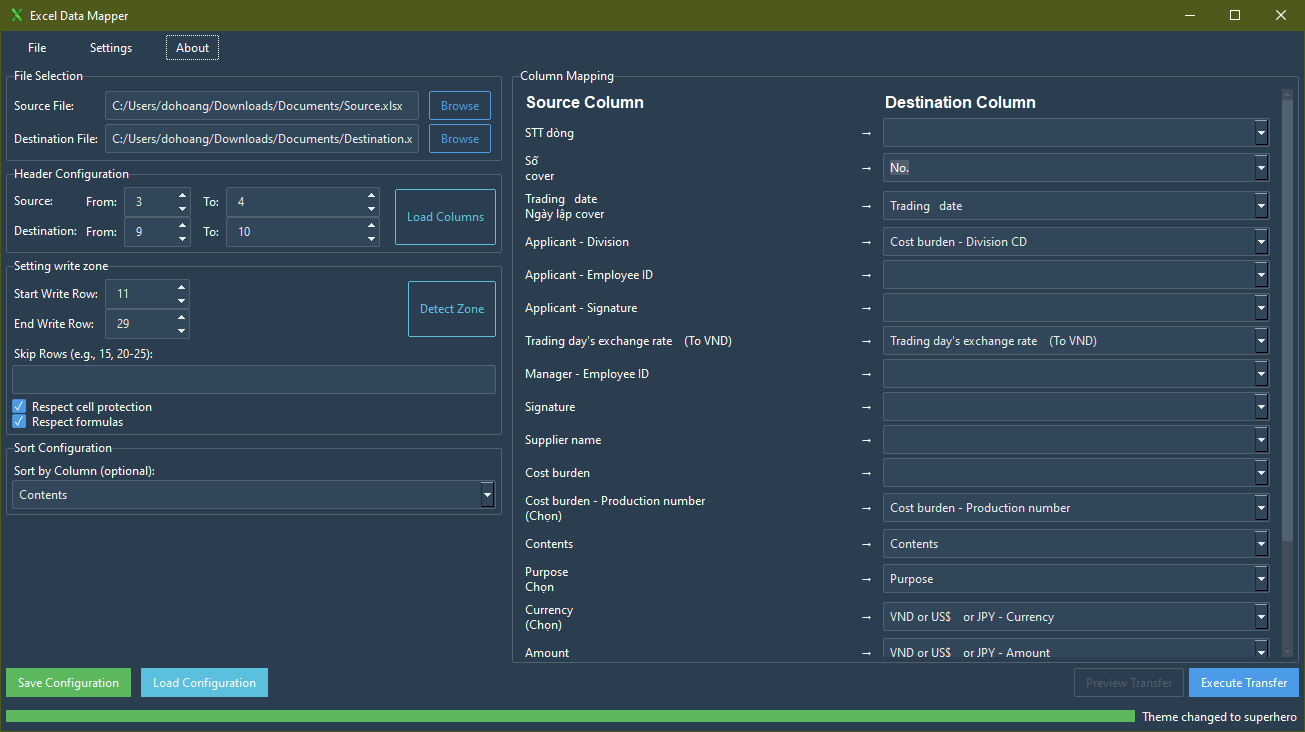
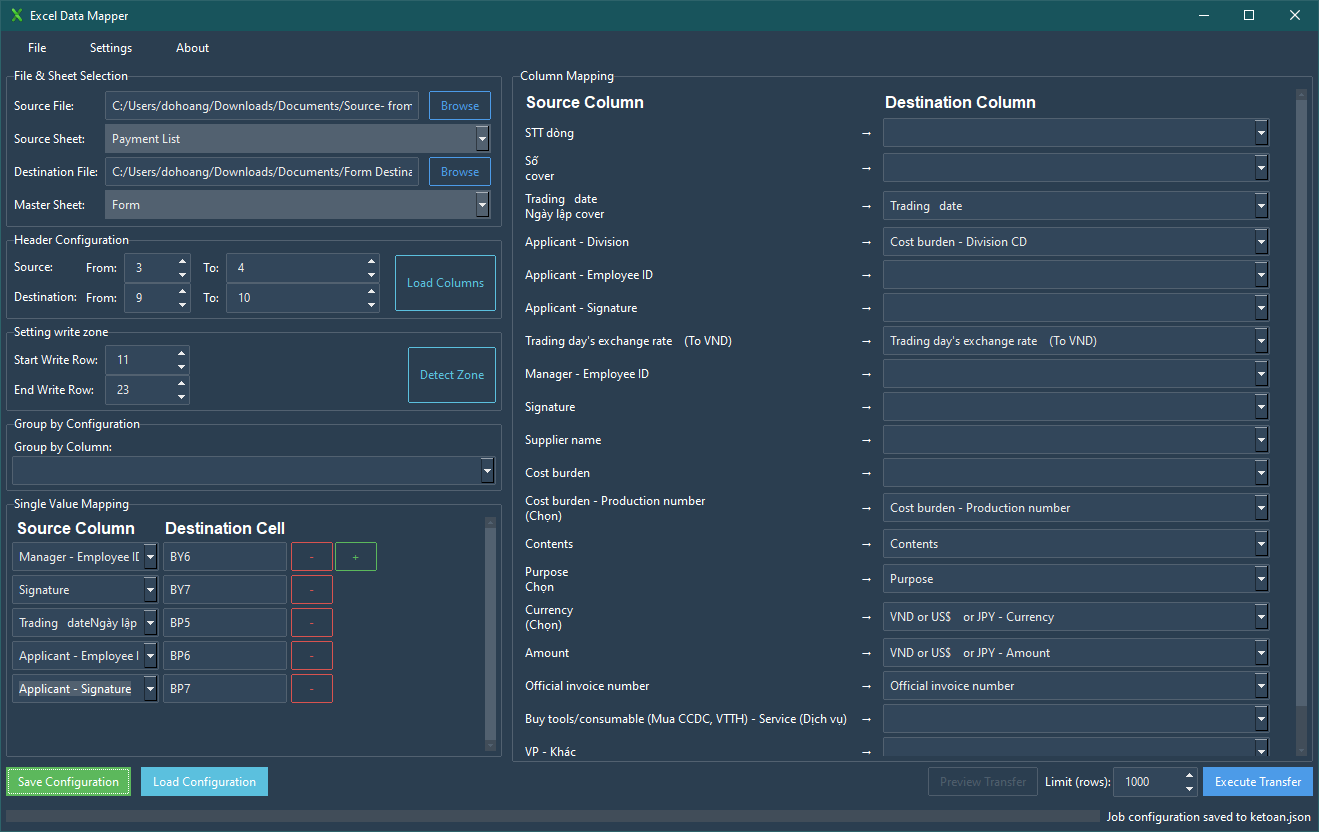
Sửa lỗi srcoll lắng nghe toàn cửa sổ. Upadte Readme

diff --git a/gui/widgets.py b/gui/widgets.py
@@ -33,14 +33,9 @@ class ScrollableFrame(ttk_boot.Frame):
         def _on_mousewheel(event):
             self.canvas.yview_scroll(int(-1*(event.delta/120)), "units")
         
-        def _bind_to_mousewheel(event):
-            self.canvas.bind_all("<MouseWheel>", _on_mousewheel)
-        
-        def _unbind_from_mousewheel(event):
-            self.canvas.unbind_all("<MouseWheel>")
-        
-        self.canvas.bind('<Enter>', _bind_to_mousewheel)
-        self.canvas.bind('<Leave>', _unbind_from_mousewheel)
+        # Bind directly to the canvas and scrollable frame, not the entire application
+        self.canvas.bind("<MouseWheel>", _on_mousewheel)
+        self.scrollable_frame.bind("<MouseWheel>", _on_mousewheel)
 
 # --- DIALOGS ---
 

diff --git a/README.md b/README.md
@@ -1,22 +1,23 @@
 # Excel Data Mapper
 
-A powerful application to map and transfer data between Excel files while preserving formatting and styles.
+A powerful application to intelligently transfer and group data between Excel files, creating new sheets from a master template while preserving all formatting and styles.
 
-<!-- Add a screenshot of the application's UI here -->
+<!-- The screenshot is slightly outdated, UI has been improved. -->
 ![Excel Data Mapper UI](./screenshot.png)
 
 ---
 
 ## ✨ Key Features
 
+- **Intelligent Template Reconstruction**: Instead of modifying your template, it generates a new output file where each data group becomes a new sheet, perfectly cloned from your master template.
 - **Flexible Column Mapping**: Automatically suggests and allows manual mapping between source and destination columns.
-- **Preserve Formatting**: Fully maintains the format, style, color, and borders of the destination Excel file.
-- **Advanced Write Zone Control**: Precisely define where data should be written, what rows to skip, and what to protect.
-- **Merged Cell Handling**: Intelligently supports reading from and writing to merged cells.
-- **Data Sorting**: Allows sorting data by a specified column before the transfer.
-- **Save/Load Configuration**: Saves all settings, including advanced ones, to a JSON file for reuse.
-- **User-Friendly Interface**: Uses ttkbootstrap with switchable light/dark themes and a responsive two-column layout.
-- **Comprehensive Error Handling**: Provides clear error messages and automatic backups for the destination file.
+- **Interactive Preview & Simulation**: A powerful multi-tab preview shows exactly how data will be grouped, what the output will look like, and flags potential data validation errors before you commit to the transfer.
+- **Data Validation Checks**: The preview automatically checks source data against the destination template's `list`-type data validation rules to catch errors early.
+- **Group Exclusion**: From the preview window, you can easily specify groups to exclude from the final transfer.
+- **Partial Preview**: For huge source files, you can limit the preview to the first N rows for a near-instant simulation.
+- **Safe by Design**: Your source and destination template files are **never modified**. All results are written to a new, separate output file.
+- **Save/Load Configuration**: Saves all settings to a JSON file for one-click reuse of complex jobs.
+- **User-Friendly Interface**: Uses ttkbootstrap with switchable light/dark themes.
 - **Robust File Handle Management**: Detects and warns if a file is locked by another program.
 
 ## 📂 Project Structure
@@ -25,7 +26,6 @@ ExcelMapper/
 
 ├── app.py                  # Main application entry point, contains GUI logic
 ├── setup.py                # Build script for creating the executable
-├── ExcelDataMapper.spec    # PyInstaller specification file for the build
 ├── requirements.txt        # Python dependencies
 ├── icon.ico                # Application icon
 ├── README.md               # This file
@@ -86,14 +86,15 @@ This project can be built in two ways:
 
 ## 📖 User Guide
 
-### Step 1: Select Files
+### Step 1: Select Files & Sheets
 - **Source File**: Choose the Excel file containing the data you want to transfer.
-- **Destination File**: Choose the Excel template file you want to populate.
+- **Destination File**: Choose the Excel **template file** you want to use as a base for the new sheets.
+- **Source Sheet / Master Sheet**: Select the correct sheet from each file.
 
 ### Step 2: Configure Headers
 This step tells the application where the headers are located in each file.
 - **Source Header Rows**: The row(s) containing the headers in the source file.
-- **Destination Header Rows**: The row(s) containing the headers in the destination file.
+- **Destination Header Rows**: The row(s) containing the headers in the destination template file.
 - Press **"Load Columns"** after configuring to have the application read and display the columns.
 
 **ASCII Art Example:**
@@ -126,33 +127,32 @@ Destination File (template.xlsx)
 +---+---------------------+----------------------+---------------------+----------------------+
 ```
 => Configuration: `Destination Header Rows: From [9] To [10]`
+
 The application will correctly read the headers as "EMPLOYEE INFORMATION - Emp. ID", "PAYMENT DETAILS - Amount", etc.
 
-### Step 3: Map Columns
-- After loading, the app will display columns from the source file on the left and from the destination file on the right.
-- The system will automatically suggest mappings. You can change these suggestions using the dropdown menu for each source column.
+### Step 3: Map Columns & Configure
+- **Column Mapping**: Map the source columns to your desired destination columns. The system will suggest mappings which you can override.
+- **Group by Configuration**: Select a column from the source file to group your data by. Each unique value in this column will result in a new sheet being created in the output file.
+- **Single Value Mapping**: Map a value from a source column to a single, specific cell in the destination template (e.g., mapping a customer name to cell `C4`).
 
-### Step 4: Advanced Write Zone Control (New!)
-This new panel gives you precise control over the writing process in the destination file.
+### Step 4: Define the Write Zone
+The "Setting write zone" panel tells the application how to handle the data, header, and footer sections of your template.
 
-- **Start Write Row**: The first row where data writing/clearing will begin. This must be after the destination header rows.
-- **End Write Row**: The last row that can be written to. If set to `0`, there is no limit. The transfer will stop if it reaches this row.
-- **Skip Rows**: Specify rows or ranges to be completely ignored. The application will not write to or clear these rows. Data that was supposed to go into a skipped row will be moved to the next available valid row.
-  - **Format**: Comma-separated numbers or ranges.
-  - **Example**: `15, 22, 30-35` will skip row 15, row 22, and all rows from 30 to 35.
-- **Respect cell protection**: (Default: On) If checked, the application will not write to any row that contains locked cells (if the sheet itself is protected). This is treated like a "skip" rule.
-- **Respect formulas**: (Default: On) If checked, the application will not write to any cell that contains a formula.
+- **Start Write Row**: The first row of the data area in your destination template.
+- **End Write Row**: The last row of the data area in your destination template. This is a **critical setting**. It acts as a marker to tell the application where the "footer" (e.g., totals, signature lines) begins.
 
-### Step 5: Configure Sorting (Optional)
-- In the "Sort Configuration" section, you can select a column from the **source** file to sort the data before it's written.
+### Step 5: Preview & Execute
+This is the recommended workflow.
 
-### Step 6: Save/Load Configuration
-- **Save Configuration**: Saves all current settings (file paths, headers, mappings, write zone rules) to a `.json` file.
-- **Load Configuration**: Loads a previously saved configuration file.
+1.  **Set Preview Limit (Optional)**: For large files, set a row limit (e.g., 1000) to get a fast preview.
+2.  **Press "Preview Transfer"**: This opens the Simulation Report.
+    -   **Summary**: Get an overview of the transfer.
+    -   **Group Details**: See a full list of all groups that will be created.
+    -   **Validation**: Check for potential conflicts between your source data and the destination sheet's data validation rules.
+3.  **Exclude Groups (Optional)**: In the "Group Details" tab, you can specify any groups you don't want to transfer.
+4.  **Press "Run Transfer"**: From the preview window, press "Run Transfer" to execute the process with your specified exclusions. A new file named `[Your-Destination-File]-output.xlsx` will be created.
 
-### Step 7: Execute
-- Press **"Execute Transfer"** to start the data transfer process.
-- A progress bar will show the status. On success, a notification will appear.
+Alternatively, you can press **"Execute Transfer"** from the main window to run the process on all data without a preview.
 
 ## 🔧 Troubleshooting
 
@@ -163,8 +163,8 @@ This new panel gives you precise control over the writing process in the destina
     -   Verify the file paths.
     -   Ensure the file is not locked (open in Microsoft Excel).
 
-2.  **"Start Write Row must be after the destination header rows."**
-    -   In the "Setting write zone" panel, the `Start Write Row` must be a number greater than the `To` value of the `Destination Header Rows`.
+2.  **"Please select a 'Group by Column'"**
+    -   This is a required field for the application to function.
 
 3.  **"Duplicate destination columns detected"**
     -   You have mapped multiple source columns to the same destination column.
@@ -177,20 +177,22 @@ All operations and errors are logged to the `app.log` file in the same directory
 
 # (Tiếng Việt) Excel Data Mapper
 
-Một ứng dụng mạnh mẽ để ánh xạ và chuyển dữ liệu giữa các file Excel trong khi vẫn giữ nguyên định dạng và style.
+Một ứng dụng mạnh mẽ để chuyển và nhóm dữ liệu giữa các file Excel một cách thông minh, tự động tạo các sheet mới từ một file mẫu (template) trong khi vẫn bảo toàn toàn bộ định dạng và style.
 
+<!-- Ảnh chụp màn hình đã hơi cũ, giao diện đã được cải thiện. -->
 ![Giao diện Excel Data Mapper](./screenshot.png)
 
 ## ✨ Tính năng chính
 
+- **Tái cấu trúc Template thông minh**: Thay vì sửa file mẫu của bạn, ứng dụng sẽ tạo ra một file output mới, trong đó mỗi nhóm dữ liệu sẽ trở thành một sheet mới, được nhân bản hoàn hảo từ sheet master của bạn.
 - **Ánh xạ cột linh hoạt**: Tự động gợi ý và cho phép ánh xạ thủ công giữa cột nguồn và đích.
-- **Giữ nguyên định dạng**: Bảo toàn hoàn toàn format, style, màu sắc, viền của file Excel đích.
-- **Kiểm soát vùng ghi nâng cao**: Định nghĩa chính xác nơi dữ liệu sẽ được ghi, các hàng cần bỏ qua, và những gì cần bảo vệ.
-- **Xử lý merge cells**: Hỗ trợ đọc và ghi dữ liệu vào các ô đã được merge một cách thông minh.
-- **Sắp xếp dữ liệu**: Cho phép sắp xếp dữ liệu theo cột được chỉ định trước khi chuyển.
-- **Lưu/Tải cấu hình**: Lưu lại toàn bộ cài đặt, bao gồm cả các tùy chọn nâng cao, vào file JSON để tái sử dụng.
-- **Giao diện thân thiện**: Sử dụng ttkbootstrap với 2 theme (sáng/tối) có thể chuyển đổi và bố cục hai cột linh hoạt.
-- **Xử lý lỗi toàn diện**: Báo lỗi rõ ràng và có backup tự động cho file đích.
+- **Xem trước & Mô phỏng tương tác**: Cửa sổ xem trước đa tab mạnh mẽ cho thấy chính xác dữ liệu sẽ được nhóm như thế nào, kết quả sẽ ra sao, và cảnh báo các lỗi data validation tiềm tàng trước khi bạn thực hiện chuyển dữ liệu.
+- **Kiểm tra Data Validation**: Tính năng xem trước tự động đối chiếu dữ liệu nguồn với các quy tắc data validation dạng `list` của file mẫu để phát hiện lỗi sớm.
+- **Loại trừ Nhóm**: Từ cửa sổ xem trước, bạn có thể dễ dàng chỉ định các nhóm không muốn chuyển vào file kết quả.
+- **Xem trước một phần**: Đối với các file nguồn khổng lồ, bạn có thể giới hạn xem trước trong N dòng đầu tiên để có kết quả mô phỏng gần như tức thì.
+- **An toàn tuyệt đối**: File nguồn và file template của bạn **không bao giờ bị chỉnh sửa**. Mọi kết quả đều được ghi ra một file output mới và riêng biệt.
+- **Lưu/Tải cấu hình**: Lưu lại toàn bộ cài đặt ra file JSON để tái sử dụng các tác vụ phức tạp chỉ bằng một cú nhấp chuột.
+- **Giao diện thân thiện**: Sử dụng ttkbootstrap với 2 theme (sáng/tối) có thể chuyển đổi.
 - **Quản lý File Handle mạnh mẽ**: Phát hiện và cảnh báo nếu file đang bị khóa bởi chương trình khác.
 
 ## 📂 Cấu trúc dự án
@@ -199,7 +201,6 @@ ExcelMapper/
 
 ├── app.py                  # File chính của ứng dụng, chứa logic giao diện
 ├── setup.py                # Script để build ra file thực thi
-├── ExcelDataMapper.spec    # File cấu hình cho PyInstaller để build
 ├── requirements.txt        # Các thư viện Python cần thiết
 ├── icon.ico                # Icon của ứng dụng
 ├── README.md               # Chính là file này
@@ -248,7 +249,7 @@ Dự án có thể được build theo hai cách:
 
 1.  **Để build ra một thư mục (mặc định):**
     ```bash
-    python setup.py buid_binary
+    python setup.py build_binary
     ```
     Ứng dụng sẽ nằm tại `dist/ExcelDataMapper/ExcelDataMapper.exe`.
 
@@ -260,14 +261,15 @@ Dự án có thể được build theo hai cách:
 
 ## 📖 Hướng dẫn sử dụng
 
-### Bước 1: Chọn File
+### Bước 1: Chọn File & Sheet
 - **Source File**: Chọn file Excel chứa dữ liệu bạn muốn chuyển đi.
-- **Destination File**: Chọn file Excel mẫu (template) mà bạn muốn điền dữ liệu vào.
+- **Destination File**: Chọn file Excel **mẫu (template)** bạn muốn dùng làm cơ sở để tạo các sheet mới.
+- **Source Sheet / Master Sheet**: Chọn sheet tương ứng từ mỗi file.
 
 ### Bước 2: Cấu hình Header
 Đây là bước để chỉ cho ứng dụng biết đâu là dòng tiêu đề trong mỗi file.
 - **Source Header Rows**: Các dòng chứa tiêu đề trong file nguồn.
-- **Destination Header Rows**: Các dòng chứa tiêu đề trong file đích.
+- **Destination Header Rows**: Các dòng chứa tiêu đề trong file template đích.
 - Nhấn **"Load Columns"** sau khi cấu hình xong để ứng dụng đọc và hiển thị các cột.
 
 **Ví dụ minh họa:**
@@ -297,36 +299,35 @@ Destination File (template.xlsx)
 | 10|       Mã NV          |       Họ và Tên      |        Số tiền       |         VAT          |  <-- Header kết thúc ở dòng 10 (Cấp phụ)
 +---+----------------------+----------------------+----------------------+----------------------+
 | 11| (dữ liệu sẽ vào đây) | (dữ liệu sẽ vào đây) | (dữ liệu sẽ vào đây) | (dữ liệu sẽ vào đây) |
-+---+----------------------+----------------------+-----------------------+---------------------+
++---+----------------------+-----------------------+---------------------+---------------------+
 ```
 => Cấu hình: `Destination Header Rows: From [9] To [10]`
+
 Ứng dụng sẽ đọc chính xác các header thành "THÔNG TIN NHÂN VIÊN - Mã NV", "CHI TIẾT THANH TOÁN - Số tiền", v.v.
 
-### Bước 3: Ánh xạ cột
-- Sau khi tải, ứng dụng sẽ hiển thị các cột từ file nguồn bên trái và các cột từ file đích bên phải.
-- Hệ thống sẽ tự động gợi ý ánh xạ. Bạn có thể thay đổi các gợi ý này bằng cách chọn từ danh sách dropdown cho mỗi cột nguồn.
+### Bước 3: Ánh xạ cột & Cấu hình
+- **Column Mapping**: Ánh xạ các cột nguồn tới các cột đích bạn mong muốn. Hệ thống sẽ gợi ý ánh xạ và bạn có thể thay đổi chúng.
+- **Group by Configuration**: Chọn một cột từ file nguồn để nhóm dữ liệu. Mỗi giá trị duy nhất trong cột này sẽ tạo ra một sheet mới trong file kết quả.
+- **Single Value Mapping**: Ánh xạ một giá trị từ cột nguồn vào một ô đơn lẻ, cụ thể trong file template (ví dụ: ánh xạ tên khách hàng vào ô `C4`).
 
-### Bước 4: Kiểm soát vùng ghi nâng cao (Mới!)
-Panel mới này cho phép bạn kiểm soát chính xác quá trình ghi dữ liệu vào file đích.
+### Bước 4: Định nghĩa Vùng Ghi (Write Zone)
+Panel "Setting write zone" giúp ứng dụng hiểu cấu trúc các vùng dữ liệu, header, và footer trong file template của bạn.
 
-- **Start Write Row**: Dòng đầu tiên mà việc ghi/xóa dữ liệu sẽ bắt đầu. Dòng này phải nằm sau các dòng header của file đích.
-- **End Write Row**: Dòng cuối cùng được phép ghi. Nếu đặt là `0`, sẽ không có giới hạn. Quá trình chuyển sẽ dừng lại nếu chạm đến dòng này.
-- **Skip Rows**: Chỉ định các hàng hoặc khoảng hàng sẽ bị bỏ qua hoàn toàn. Ứng dụng sẽ không ghi hoặc xóa dữ liệu ở các hàng này. Dữ liệu dự kiến ghi vào một hàng bị bỏ qua sẽ được chuyển xuống hàng hợp lệ tiếp theo.
-  - **Định dạng**: Các số hoặc khoảng số cách nhau bởi dấu phẩy.
-  - **Ví dụ**: `15, 22, 30-35` sẽ bỏ qua dòng 15, dòng 22, và tất cả các dòng từ 30 đến 35.
-- **Respect cell protection**: (Mặc định: Bật) Nếu được chọn, ứng dụng sẽ không ghi vào bất kỳ hàng nào có chứa ô bị khóa (khi sheet được bảo vệ). Quy tắc này được xử lý tương tự như một hàng trong "Skip Rows".
-- **Respect formulas**: (Mặc định: Bật) Nếu được chọn, ứng dụng sẽ không ghi vào bất kỳ ô nào có chứa công thức.
+- **Start Write Row**: Dòng đầu tiên của khu vực dữ liệu trong file template.
+- **End Write Row**: Dòng cuối cùng của khu vực dữ liệu trong file template. Đây là một **cài đặt cực kỳ quan trọng**. Nó đóng vai trò như một "cột mốc" để báo cho ứng dụng biết đâu là điểm bắt đầu của phần "footer" (ví dụ: dòng tổng cộng, chữ ký).
 
-### Bước 5: Cấu hình sắp xếp (Tùy chọn)
-- Trong phần "Sort Configuration", bạn có thể chọn một cột từ file **nguồn** để sắp xếp dữ liệu trước khi ghi.
+### Bước 5: Xem trước & Thực thi
+Đây là luồng làm việc được khuyến nghị.
 
-### Bước 6: Lưu/Tải cấu hình
-- **Save Configuration**: Lưu lại toàn bộ cài đặt hiện tại (đường dẫn file, header, ánh xạ, quy tắc vùng ghi) ra một file `.json`.
-- **Load Configuration**: Tải lại một file cấu hình đã lưu.
+1.  **Đặt giới hạn xem trước (Tùy chọn)**: Với các file lớn, hãy đặt giới hạn (ví dụ: 1000 dòng) để có một bản xem trước nhanh.
+2.  **Nhấn "Preview Transfer"**: Cửa sổ Báo cáo Mô phỏng sẽ mở ra.
+    -   **Summary**: Xem tổng quan về quá trình sẽ diễn ra.
+    -   **Group Details**: Xem danh sách đầy đủ các nhóm sẽ được tạo.
+    -   **Validation**: Kiểm tra các xung đột tiềm tàng giữa dữ liệu nguồn và quy tắc data validation của sheet đích.
+3.  **Loại trừ Nhóm (Tùy chọn)**: Trong tab "Group Details", bạn có thể chỉ định các nhóm không muốn chuyển.
+4.  **Nhấn "Run Transfer"**: Từ cửa sổ xem trước, nhấn nút này để thực hiện quá trình với các thiết lập loại trừ của bạn. Một file mới có tên `[Tên-file-đích]-output.xlsx` sẽ được tạo ra.
 
-### Bước 7: Thực hiện
-- Nhấn **"Execute Transfer"** để bắt đầu quá trình chuyển dữ liệu.
-- Thanh tiến trình sẽ cập nhật trạng thái. Nếu thành công, một thông báo sẽ hiện ra.
+Ngoài ra, bạn có thể nhấn **"Execute Transfer"** từ cửa sổ chính để chạy trực tiếp trên toàn bộ dữ liệu mà không cần xem trước.
 
 ## 🔧 Xử lý sự cố
 
@@ -337,8 +338,8 @@ Panel mới này cho phép bạn kiểm soát chính xác quá trình ghi dữ l
     -   Kiểm tra lại đường dẫn file.
     -   Đảm bảo file không bị khóa (đang mở trong Microsoft Excel).
 
-2.  **"Start Write Row must be after the destination header rows."**
-    -   Trong panel "Setting write zone", giá trị `Start Write Row` phải lớn hơn giá trị `To` của `Destination Header Rows`.
+2.  **"Please select a 'Group by Column'"**
+    -   Đây là trường bắt buộc để ứng dụng có thể hoạt động.
 
 3.  **"Duplicate destination columns detected"**
     -   Bạn đã ánh xạ nhiều cột nguồn vào cùng một cột đích.
